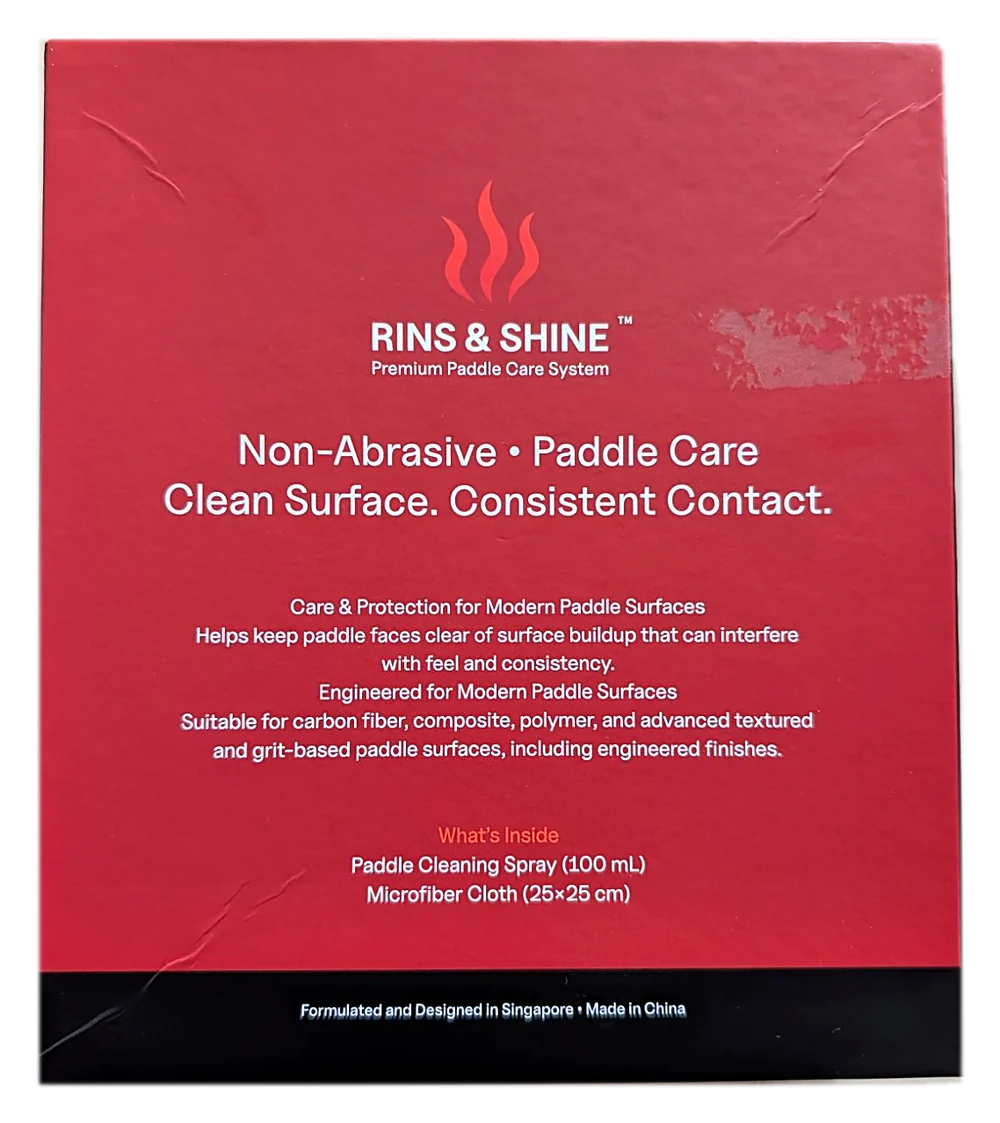
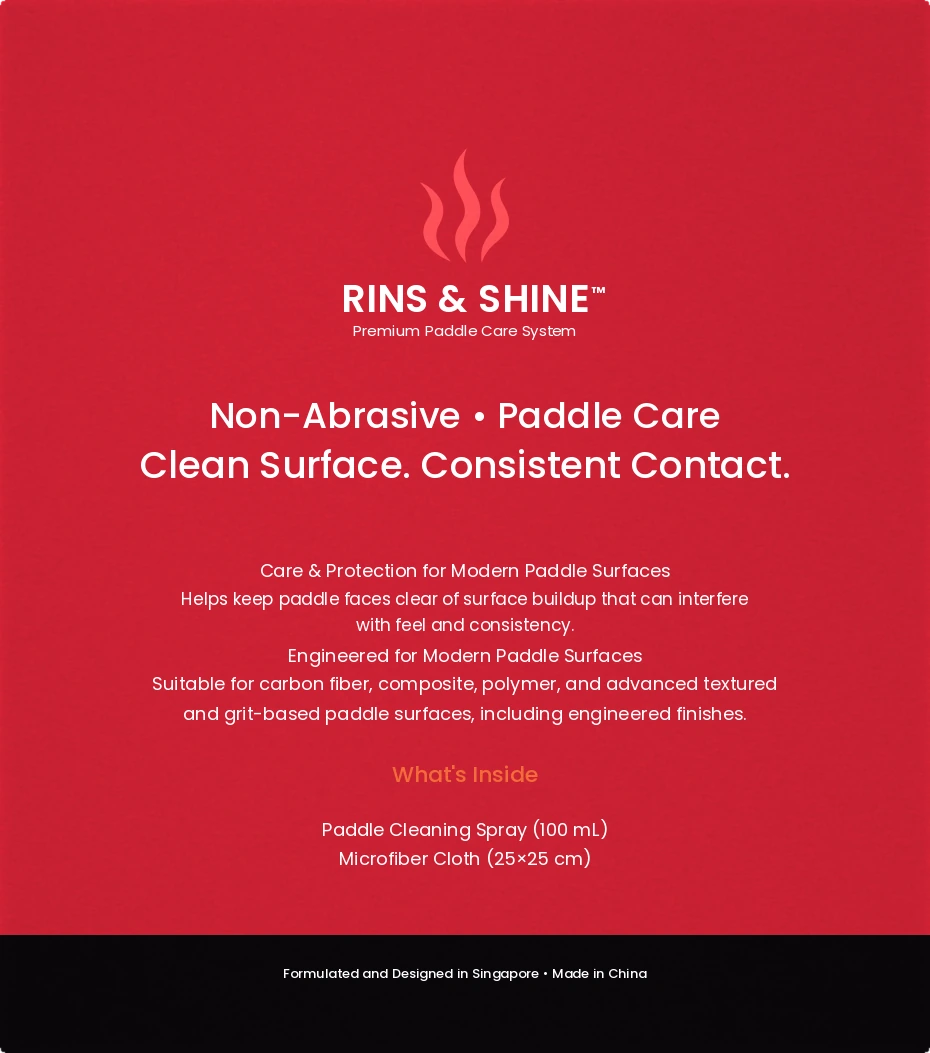
Make the product shots presentable
The bottle keeps its photograph: its cylinder shading is rebuilt from the
median profile of its own rows, which evens out dents, scratches and stray
reflections while leaving the label untouched. The kit photograph gets a
tone curve that sinks the box interior to a true black, plus dust removal.

The cloth and the box are now renders. Both samples were damaged — the
cloth creased into quarters from its packet, the box scuffed through to
the board and dented — and no amount of healing made them look like
product photography. Each is rebuilt from measurements of the original:
the cloth from its fabric colour, nap, overlock geometry and print
placement, the box front from the real copy set in Poppins at the
positions measured off the photograph. Both use the real logo artwork.

Claude-Session: https://claude.ai/code/session_016rf62Dq2c8YrgAgivfhmTL

diff --git a/README.md b/README.md
@@ -33,11 +33,20 @@ All page copy is in `app/page.tsx`, in plain JSX, section by section.
 
 - `logo.png`, `logo-white.png` — the logo with the white background removed.
   Pixel-for-pixel the supplied artwork, just with transparency.
-- `bottle-hero.webp`, `kit.webp`, `box.webp`, `cloth.webp` — the four product
-  shots, cut off their background, straightened and saved with transparency, so
-  each one drops onto any section colour. Shadows come from CSS, not the file.
+- `bottle-hero.webp`, `kit.webp` — photographs, cut off their background and
+  retouched: the bottle's cylinder shading was rebuilt from its own row
+  statistics to even out dents and reflections, and the kit's blacks were
+  deepened and its dust removed.
+- `cloth.webp`, `box.webp` — rendered, not photographed. The sample cloth was
+  creased from its packet and the sample box was scuffed and dented, so both
+  were rebuilt clean: the cloth from measured fabric colour, nap and stitch
+  geometry, the box front from the real copy set in Poppins at the positions
+  measured off the photograph. Both carry the real logo artwork.
 - `og.jpg` — 1200×630 social sharing card.
 - `icon-512.png`, `apple-icon.png` — favicons.
+
+All four are transparent WebP, so each drops onto any section colour and its
+shadow comes from CSS rather than the file.
 
 Replace any of these with studio photography later and nothing else needs to
 change, as long as the filenames stay the same. Keep the transparency if you
